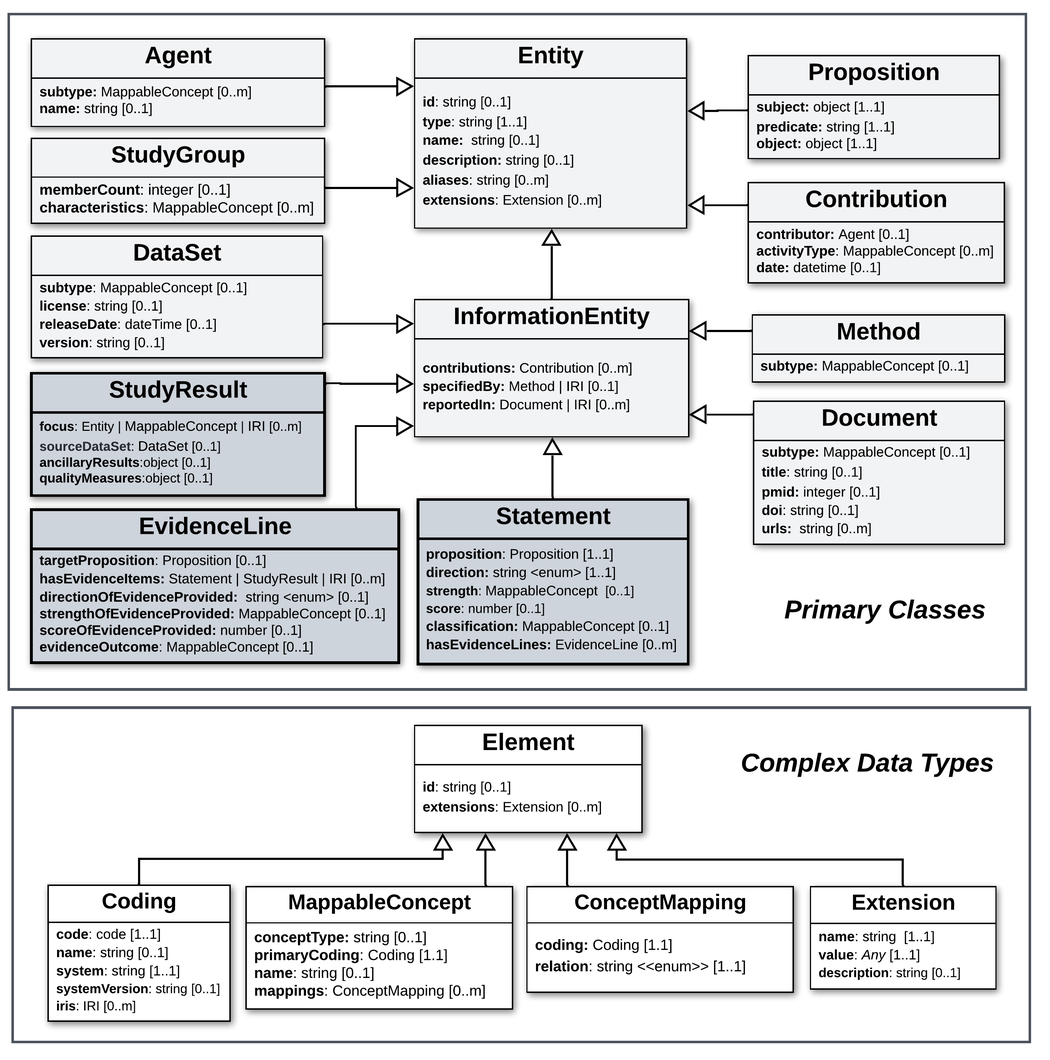
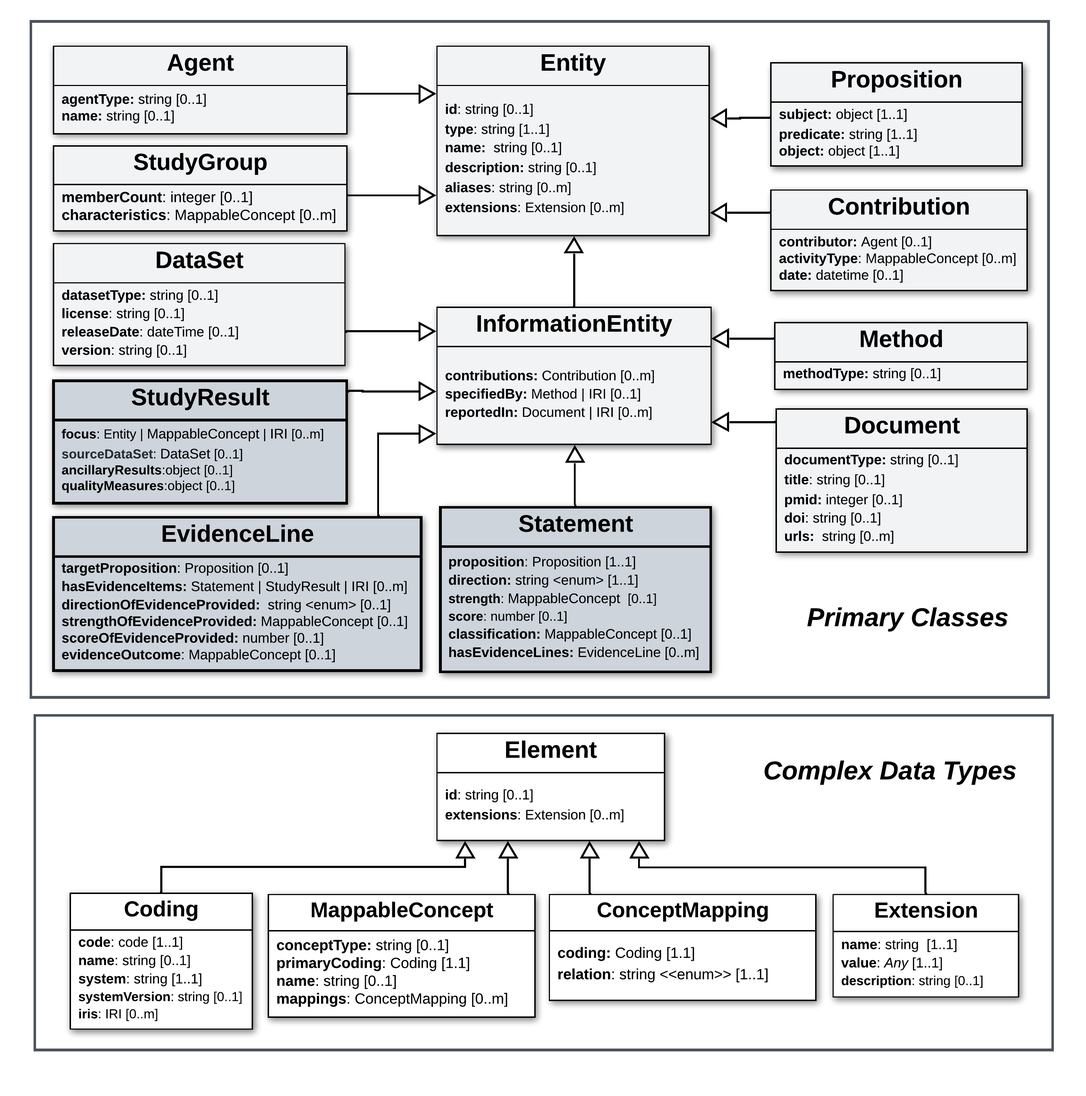
1.0 docs ballot v4 (#341)

Changed region(s): [[0.0, 0.0, 1.0, 0.9906], [0.75, 0.5572, 0.9375, 0.5882]]

diff --git a/docs/source/va-standard-profiles/community-profiles/aac-2017-profiles.rst b/docs/source/va-standard-profiles/community-profiles/aac-2017-profiles.rst
@@ -5,9 +5,22 @@ AAC 2017 Aligned Profiles
 
 The following profiles align with terminology and curation conventions from the `2017 AMP/ASCO/CAP (AAC) Clinical Variant Interpretation Guidelines <https://pubmed.ncbi.nlm.nih.gov/27993330/>`_.
 
-Profiles are authored as YAML-based specifications defining **AAC-based constraints** on top of core class definitions, from which machine-readable JSON Schema and user-facing Web Documentation are automatically generated by `GKS Metaschema Tooling <https://github.com/ga4gh/gks-metaschema>`_.
+These initial profiles were developed to support the following implementations and use cases:
 
-Links to **Source YAML** and **JSON Schema** artifacts are provided following the description of each profile below.
+.. list-table::
+   :class: clean-wrap
+   :header-rows: 1
+   :align: left
+   :widths: 30 70
+
+   *  - Implementer
+      - Use Case
+   *  - VICC MetaKB
+      - Using VA-Spec models to structure diagnostic, prognostic, and therapeutic response variant classifications and evidence in its community-facing data exchange APIs.
+   *  - ClinVar Submission Utility
+      - Uses VA-Spec as input format for submission tools that send variant classifications and evidence from CIViC to the ClinVar database via its API.
+
+The number and coverage of these profiles will grow as these implementations expand their scope, and additional adopters bring new use cases to the spec.
 
 .. _variant-therapeutic-response-statement-aac-2017:
 
@@ -40,17 +53,17 @@ This profile applies the following **constraints** on top of the core :ref:`Stat
       - Description
    *  - proposition
       -
-      - :ref:`Variant Therapeutic Response Proposition`
+      - :ref:`Variant Therapeutic Response Proposition <variant-therapeutic-response-proposition>`
       - 1..1
       - A proposition about the therapeutic response associated with a variant, in the context of a particular condition. The validity of this proposition, and the level of confidence/evidence supporting it, may be assessed and reported by the Statement.
    *  - strength
       -
-      - :ref:`MappableConcept` (nested enum:  | )
+      - :ref:`MappableConcept` (nested enum:  Level A | Level B | Level C | Level D)
       - 0..1
       - A term used to report the strength of a Proposition's assessment in the direction indicated (i.e. how strongly supported or disputed the Proposition is believed to be). The indicated enumeration is bound to the 'code' field in the Coding object nested inside the MappableConcept.
    *  - classification
       -
-      - :ref:`MappableConcept`  (nested enum:  | |  | | )
+      - :ref:`MappableConcept`  (nested enum: Tier I | Tier II | Tier III | Tier IV)
       - 0..1
       - A single term or phrase summarizing the outcome of direction and strength assessments of a Statement's Proposition, in terms of a classification of its subject. The indicated enumeration is bound to the 'code' field in the Coding object nested inside the MappableConcept.
 
@@ -91,17 +104,17 @@ This profile applies the following **constraints** on top of the core :ref:`Stat
       - Description
    *  - proposition
       -
-      - :ref:`Variant Diagnostic Proposition`
+      - :ref:`Variant Diagnostic Proposition <variant-diagnostic-proposition>`
       - 1..1
       - A proposition about a diagnostic association between a variant and condition. The validity of this proposition, and the level of confidence/evidence supporting it, may be assessed and reported by the Statement.
    *  - strength
       -
-      - :ref:`MappableConcept` (nested enum:  | )
+      - :ref:`MappableConcept` (nested enum:  Level A | Level B | Level C | Level D)
       - 0..1
       - A term used to report the strength of a Proposition's assessment in the direction indicated (i.e. how strongly supported or disputed the Proposition is believed to be). The indicated enumeration is bound to the 'code' field in the Coding object nested inside the MappableConcept.
    *  - classification
       -
-      - :ref:`MappableConcept`  (nested enum:  | |  | | )
+      - :ref:`MappableConcept` (nested enum:  Level A | Level B | Level C | Level D)
       - 0..1
       - A single term or phrase summarizing the outcome of direction and strength assessments of a Statement's Proposition, in terms of a classification of its subject. The indicated enumeration is bound to the 'code' field in the Coding object nested inside the MappableConcept.
 
@@ -142,17 +155,17 @@ This profile applies the following **constraints** on top of the core :ref:`Stat
       - Description
    *  - proposition
       -
-      - :ref:`Variant Prognostic Proposition`
+      - :ref:`Variant Prognostic Proposition <variant-prognostic-proposition>`
       - 1..1
       - A proposition about a prognostic association between a variant and condition. The validity of this proposition, and the level of confidence/evidence supporting it, may be assessed and reported by the Statement.
    *  - strength
       -
-      - :ref:`MappableConcept` (nested enum:  | )
+      - :ref:`MappableConcept` (nested enum:  Level A | Level B | Level C | Level D)
       - 0..1
       - A term used to report the strength of a Proposition's assessment in the direction indicated (i.e. how strongly supported or disputed the Proposition is believed to be). The indicated enumeration is bound to the 'code' field in the Coding object nested inside the MappableConcept.
    *  - classification
       -
-      - :ref:`MappableConcept`  (nested enum:  | |  | | )
+      - :ref:`MappableConcept` (nested enum:  Level A | Level B | Level C | Level D)
       - 0..1
       - A single term or phrase summarizing the outcome of direction and strength assessments of a Statement's Proposition, in terms of a classification of its subject. The indicated enumeration is bound to the 'code' field in the Coding object nested inside the MappableConcept.
 

diff --git a/docs/source/va-standard-profiles/base-profiles/proposition-profiles.rst b/docs/source/va-standard-profiles/base-profiles/proposition-profiles.rst
@@ -17,12 +17,25 @@ Variant Pathogenicity Proposition
 
 .. include::  ../../def/va-spec/VariantPathogenicityProposition.rst
 
+**Proposition Semantics**
+
+The ``subject``, ``predicate``, ``object`` attributes defined in this profile can be used to create structured representations of basic propositions such as  *"NM_005343.4:c.173C>T is causal for Costello Syndrome"*. Optional ``qualifier`` attributes are able to support details like a **germline allele origin** and **HRAS gene context** for the variant, and  **low penetrance** and **dominant" mode of inheritance** for the condition.
+
+These specific attributes were defined to support the needs of early :ref:`VA-Spec implementations <implementations>`, but may be refined or expanded as additional use cases emerge.
+
 .. _variant-oncogenicity-proposition:
 
 Variant Oncogenicity Proposition
 #################################
 
 .. include::  ../../def/va-spec/VariantOncogenicityProposition.rst
+
+
+**Proposition Semantics**
+
+The ``subject``, ``predicate``, ``object`` attributes defined in this profile can be used to create structured representations of basic propositions such as  *"NP_000305.3:p.Arg11Thr is causal for Breast Carcinoma"*. Optional ``qualifier`` attributes are able to support details like a **somatic allele origin** and **EGFR gene context** for the variant.
+
+These specific attributes were defined to support the needs of early :ref:`VA-Spec implementations <implementations>`, but may be refined or expanded as additional use cases emerge.
 
 .. _variant-therapeutic-response-proposition:
 
@@ -31,12 +44,27 @@ Variant Therapeutic Response Proposition
 
 .. include::  ../../def/va-spec/VariantTherapeuticResponseProposition.rst
 
+
+**Proposition Semantics**
+
+The ``subject``, ``predicate``, ``object`` attributes defined in this profile can be used to create structured representations of basic propositions such as  *"EGFR L858R predicts sensitivity to Afatinib"*. Here, a required ``conditionQualifierualifier`` captures the disease context in which the reported association holds (e.g. **Lung Adenocarcinoma**), and other optional qualifiers are able to support details like a **somatic allele origin** and **EGFR gene context** for the variant.
+
+These specific attributes were defined to support the needs of early :ref:`VA-Spec implementations <implementations>`, but may be refined or expanded as additional use cases emerge.
+
+
 .. _variant-diagnostic-proposition:
 
 Variant Diagnostic Proposition
 ##############################
 
 .. include::  ../../def/va-spec/VariantDiagnosticProposition.rst
+
+**Proposition Semantics**
+
+The ``subject``, ``predicate``, ``object`` attributes defined in this profile can be used to create structured representations of basic propositions such as  *"EGFR R11T is a diagnostic inclusion criterion for Breast Cancer"*. Optional ``qualifier`` attributes are able to support details like a **somatic allele origin** and **EGFR gene context** for the variant.
+
+These specific attributes were defined to support the needs of early :ref:`VA-Spec implementations <implementations>`, but may be refined or expanded as additional use cases emerge.
+
 
 .. _variant-prognostic-proposition:
 
@@ -45,9 +73,22 @@ Variant Prognostic Proposition
 
 .. include::  ../../def/va-spec/VariantPrognosticProposition.rst
 
+**Proposition Semantics**
+
+The ``subject``, ``predicate``, ``object`` attributes defined in this profile can be used to create structured representations of basic propositions such as  *"EGFR R11T associated with better outcomes for Breast Cancer"*. Optional ``qualifier`` attributes are able to support details like a **somatic allele origin** and **EGFR gene context** for the variant.
+
+These specific attributes were defined to support the needs of early :ref:`VA-Spec implementations <implementations>`, but may be refined or expanded as additional use cases emerge.
+
+
 .. _experimental-variant-functional-impact-proposition:
 
 Experimental Variant Functional Impact Proposition
 ##################################################
 
 .. include::  ../../def/va-spec/ExperimentalVariantFunctionalImpactProposition.rst
+
+**Proposition Semantics**
+
+The ``subject``, ``predicate``, ``object`` attributes defined in this profile can be used to create structured representations of basic propositions such as  *"NP_000305.3:p.Arg11Thr impacts the function of the human PTEN gene"*. Here, an optional ``experimentalContextQualifier`` attribute can reference an assay or analysis that supported the reported impact, which can further inform interpretation of the proposed knowledge.
+
+These specific attributes were defined to support the needs of an early :ref:`MAVE-DB implementation <implementations>` of the VA-Spec, and will likely be refined and/or expanded as additional use cases emerge.

diff --git a/docs/source/appendices/design-decisions.rst b/docs/source/appendices/design-decisions.rst
@@ -60,10 +60,20 @@ Version 1 of the VA-Spec represents all other Domain Entity types using a simple
 Profile Authoring Mechanisms
 ############################
 
-At present, VA-Spec uses two distinct mechanisms for authoring specializations of Core Model Classes for representing specific types of Varaint knowledge (i.e. 'VA Profiles').
- #. A `Metaschema Processor (MSP)-based approach <https://github.com/ga4gh/gks-metaschema>`_ that special MSP functions like `inherits` and `extends` - and requires MSP tooling derive concrete subclasses of parent core classes. This mechanism is used for authoring 'Base Profiles' for Propositions and Study Results, which can be used/referenced within Statement and Evidence Line profiles.
- #. A `JSON Schema composition-based approach <https://json-schema.org/understanding-json-schema/reference/combining>`_ that uses the ``allOf`` keyword to extend core class definitions with additional constraints. This mechanism is used for authoring 'Community Profiles' for Statements and Evidence Lines, which constrain the values of certain attributes to align with terminologies and conventions from established community standards such as the ACMG-2015 Interpretation Guidelines. For more, see `here <https://va-ga4gh.readthedocs.io/en/latest/community-profile-sets/index.html>`_.
+In version 1.0 of the VA-Spec, we distinguish between two categories of profiles, whose specifications which employ distinct authoring mechanisms:
 
-This design decision was largely guided by the technical environment under which we had to implement the initial profiling process, and limitations this imposed. Metashcema Processor tooling, while not specifically suited to support profiling operations, were available and used in other GKS standards. And JSON Schema is a widely used language familiar to most developers, that has built in support for profiling tasks.
+ **VA Base Profiles**:
 
-We recognize that this patchwork approach is not ideal, and plan to evolve toward a more consistent profile authoring mechanism with integrated tooling support for community development (see :ref:`Future Plans <link-ml-profile-authoring-support>`).
+  - Specialize generic VA core classes for a particular type of knowledge, through formal definition of concrete subclasses.
+  - This approach relies on bespoke `Metaschema Processor (MSP) tooling <https://github.com/ga4gh/gks-metaschema>`_ with functions to craft subclass definitions, and associated tooling to ferive formal json schema from them.
+  - This Base Profiling approach is used to create :ref:`Proposition Profiles<proposition-profiles>` and :ref:`Study Result Profiles<study-result-profiles>`, which can be used/referenced within Statement and Evidence Line profiles.
+
+ **Community Profiles**:
+
+  - Layer additional constraints on top of VA core classes to enforce alignment with terminology conventions of a specific community guideline (e.g. ACMG 2015).
+  - These constraints are defined using a native json schema composition approach, which does not result in creation of concrete subclasses for each profile.
+  - This approach is used to define :ref:`Statement<Statement>` and :ref:`Evidence Line<EvidenceLine>` profiles - which incorporate Propositions to specify the possible fact they assert to be true or evaluate evidence against, respectively.
+
+This design decision was largely guided to minimize the number of classes in the model while providing flexibility into specialize core models for diverse domains and community guidelines.   It also leverages the JSON Schema language which is widely used and familiar to most developers.
+
+For more information and technical guidance around how these types of profiles are authored and used, see the :ref:`Developer Guide <developer-guide>` section.

diff --git a/docs/source/developer-guide.rst b/docs/source/developer-guide.rst
@@ -10,7 +10,7 @@ Preceding documentation provides a more conceptual understanding of the VA-Spec 
 Authoring Base vs Community Profiles
 #####################################
 
-As noted :ref:`here <va-profiles>`, version 1.0 of the VA-Spec makes a formal distinction between 'Base' and 'Community' Profiles, and relies on distinct mechanisms for authoring them.
+Here we build on this :ref:`conceptual overview of the Profiling Approach <profiles>`, to describe the technical mechanisms used to define profile specilaizations. Version 1.0 of the VA-Spec makes a formal distinction between **'Base'** and **'Community'** Profiles, and relies on **distinct mechanisms** for authoring them.
 
 .. _inheritance-based-profiling:
 
@@ -87,7 +87,7 @@ Custom Profile Development
 
 Representation of a particular type of **Statement** or **Evidence Line** using the VA-Spec does not always require a VA Profile to be specifically defined for it.
 
-Custom Profiles are Statement or Evidence Line profiles that are created de novo, to support a specific implementation use case where data cannot be made to conform to a particular guideline-based Community Profile .
+Custom Profiles are Statement or Evidence Line models that are defined de novo, to support a specific implementation use case where data cannot be made to conform to a particular guideline-based Community Profile.
 
 This section describes why these are useful, and how to create them.
 
@@ -97,11 +97,11 @@ This section describes why these are useful, and how to create them.
 * Implementers who do not seek such alignment can build their own schema for Statements or Evidence Lines to report on any of the knowledge types specified in VA :ref:`Base Proposition profiles<proposition-profiles>`.
 * For example, a project that aims to represent some of the messier data in ClinVar where values for key fields bound to ACMG-specific enumerations in the exisitng :ref:`Variant Pathogenicity Statement profile <variant-pathogenicity-statement-acmg-2015>` - and doesn't want to use :ref:`Extensions <Extension>` to capture this data - can define a custom Pathogenicity Statement Profile from core Statement and Evidence Line classes that applies constraints specific to its data.
 
-**The process is relatively straightforward:**
+**The process is straightforward** - e.g. to create a custom Statement profile for pathogenicity classification data not based strictly aligned with ACMG terminology:
 
-#. Starting with the core :ref:`Statement<Statement` class
+#. Start with the core :ref:`Statement<Statement>` class
 #. Bind its ``proposition`` attribute to the :ref:`VariantPathogenicityProposition <variant-pathogenicity-proposition>`base profile class
-#. Use other base Statement attributes and core classes to represent additional information about the Statement (e.g. strength, classification, methods, etc) - defining additional constraints or enumerations as desired using the :ref:`Composition-Based Profiling Mechanism <composition-based-profiling>` described above.
+#. Use other core Statement attributes and related core classes to represent additional information about the Statement (e.g. strength, classification, methods, etc) - defining additional constraints or enumerations as desired using the :ref:`Composition-Based Profiling Mechanism <composition-based-profiling>` described above.
 
 This :ref:`simple data example <custom-variant-pathogenicity-statement-example>` illustrates application of this approach to create a custom, non-ACMG-compliant representation of a pathogenicity statement.
 

diff --git a/docs/source/examples/acmg-variant-pathogenicity-statement-with-evidence.rst b/docs/source/examples/acmg-variant-pathogenicity-statement-with-evidence.rst
@@ -25,12 +25,13 @@ A few additional notes about this example:
 
 * Comments in the yaml are provided to help readers better understand the structure, semantics, and utility of the data in the example.
 * Some identifiers not present in the source test fixture data were created for purposes of identifying and cross-referencing objects in this aggregate example (these are all prefixed with the string 'ex:').
-* Note that the variant subject of each Statement and Study Result objects is reported to be the same for simplicity (ex:Variant001, shown in the diagram as *NM_004700.4:c.803CCT[1]*).In reality these objects may describe subtly different variants that all map to each other in some way (e.g. a protein-level variant in the Functional Impact objects, a genomic-level variant in the Allele Frequency objects, and a Categorical Variant that covers both of these contextual variants in the Pathogenicity Statement and its direct Evidence Lines). Nuances around how variant subjects of Statements and those described by supporting evidence is a separate and complex topic addressed :ref:`here<variant-congruence>`.
+* Note that the variant subject of each Statement and Study Result objects is reported as the same, generic variation for simplicity (ex:Variation001). In reality these objects may describe subtly different variants that all map to each other in some way (e.g. a protein-level variant in the Functional Impact objects, a genomic-level variant in the Allele Frequency objects, and a Categorical Variant that covers both of these contextual variants in the Pathogenicity Statement and its direct Evidence Lines). Nuances around how variant subjects of Statements and those described by supporting evidence is a separate and complex topic addressed :ref:`here<variant-congruence>`.
 * The example omits full representations of these `VRS <https://github.com/ga4gh/vrs>`_ and `CatVRS <https://github.com/ga4gh/cat-vrs>`_ Variation objects - as these are large structures that are the remit of other GKS Specifications.
 
 **Data**:
 
 .. note:: Comments in the example below will be easier to view in the |acmg_pathogenicity_statement_with_evidence_example_source_yaml|, which affords the option of a wider browser window.
+   We recommend opening this example side-by-side with the figure above, and tracking how the data reflects the diagrammed structure and semantics.
 
 .. code-block:: yaml
 

diff --git a/docs/source/modeling-foundations/profiles.rst b/docs/source/modeling-foundations/profiles.rst
@@ -26,12 +26,12 @@ The table below describes the different profiling tasks supported, with examples
       - Specialization of the ``Proposition`` class to create the ``VariantPathogenicityProposition`` profile
    *  - Import and reference classes for domain entities that variant knowledge is about
       - The ``VariantPathogenicityProposition`` profile uses ``MolecularVariation`` and ``CategoricalVariation`` classes imported from VRS and CatVRS, and a minimal ``Condition`` class defined in the VA-Spec itself.
-   *  - Constrain attributes to take a more specific type of value
-      - The ``VariantPathogenicityProposition`` profile restircts the ``object`` attribute to take a ``Condition`` as its value
-   *  - Define a new attribute to capture domain-specific information in a profiled class
-      - The ``VariantPathogenicityProposition`` profile defines ``geneContextQualifier`` and ``alleleoriginQualifier`` attributes.
+   *  - Constrain attributes to take a more specific type of value (possible renaming them in the process)
+      - The ``VariantPathogenicityProposition`` profile renames the ``object`` attribute  to ``objectCondition``, and restricts it to take a ``Condition`` as its value
    *  - Define value sets and binding them to select attributes.
       - The ``ACMG 2015 Variant Pathogenicity Statement`` profile restricts its ``classification`` attribute to take values based on ACMG 2015 criterion codes and terminology.
+   *  - Define a new attribute to capture domain-specific information in a profiled class
+      - The ``VariantPathogenicityProposition`` profile defines ``geneContextQualifier`` and ``alleleoriginQualifier`` attributes.
    *  - Refine cardinality of select attributes
       - The ``ACMG 2015 Variant Pathogenicity Statement`` profile makes ``Statement.classification`` a required field.
 

diff --git a/docs/source/va-standard-profiles/community-profiles/acmg-2015-profiles.rst b/docs/source/va-standard-profiles/community-profiles/acmg-2015-profiles.rst
@@ -3,9 +3,24 @@
 ACMG 2015 Aligned Profiles
 @@@@@@@@@@@@@@@@@@@@@@@@@@
 
-The following profiles align with terminology and curation conventions from the `ACMG 2015 Pathogenicity Interpretation Guidelines <https://pubmed.ncbi.nlm.nih.gov/25741868>`_
+The following profiles align with terminology and curation conventions from the `ACMG 2015 Pathogenicity Interpretation Guidelines <https://pubmed.ncbi.nlm.nih.gov/25741868>`_.
 
-Profiles are authored as YAML-based specifications defining **ACMG-based constraints** on top of a core class definitions from which machine-readable JSON Schema and user-facing Web Documentation are automatically generated by `GKS Metaschema Tooling <https://github.com/ga4gh/gks-metaschema>`_.
+These initial profiles were developed to support the following implementations and use cases:
+
+.. list-table::
+   :class: clean-wrap
+   :header-rows: 1
+   :align: left
+   :widths: 30 70
+
+   *  - Implementer
+      - Use Case
+   *  - ClinVar GKS
+      - Will use VA-Spec to represent GKS-based representations of the ClinVar XML records, and exchange this data across various ClinGen data systems
+   *  - MAVE DB
+      - Will use VA-Spec as a format to send multiplex-assay based functional impact data, classifications, and evidence interpretations to external platforms where they can be used to support pathogenicity and oncogenicity interpretation.
+
+The number and coverage of these profiles will grow as these implementations expand their scope, and additional adopters bring new use cases to the spec.
 
 .. _variant-pathogenicity-statement-acmg-2015:
 

diff --git a/docs/source/va-standard-profiles/community-profiles/ccv-2022-profiles.rst b/docs/source/va-standard-profiles/community-profiles/ccv-2022-profiles.rst
@@ -3,11 +3,31 @@
 CCV 2022 Aligned Profiles
 @@@@@@@@@@@@@@@@@@@@@@@@@
 
+
 The following profiles align with terminology and curation conventions from the `ClinGen/CGC/VICC (CCV) 2022 Oncogenicity Interpretation Guidelines <https://pubmed.ncbi.nlm.nih.gov/35101336/>`_
 
-Profiles are authored as YAML-based specifications defining **CCV-based constraints** on top of the core class definitions, from which machine-readable JSON Schema and user-facing Web Documentation are automatically generated by `GKS Metaschema Tooling <https://github.com/ga4gh/gks-metaschema>`_.
+These initial profiles were developed to support the following implementations and use cases:
 
-Links to **Source YAML** and **JSON Schema** artifacts are provided following the description of each profile below.
+.. list-table::
+   :class: clean-wrap
+   :header-rows: 1
+   :align: left
+   :widths: 30 70
+
+.. list-table::
+   :class: clean-wrap
+   :header-rows: 1
+   :align: left
+   :widths: 30 70
+
+   *  - Implementer
+      - Use Case
+   *  - VICC MetaKB
+      - Using VA-Spec models to structure oncogenicity classifications and evidence in its community-facing data exchange APIs.
+   *  - ClinVar Submission Utility
+      - Uses VA-Spec as input format for submission tools that send variant classifications and evidence from CIViC to the ClinVar database via its API.
+
+The number and coverage of these profiles will grow as these implementations expand their scope, and additional adopters bring new use cases to the spec.
 
 .. _variant-oncogenicity-statement-ccv-2022:
 

diff --git a/docs/source/va-standard-profiles/community-profiles/index.rst b/docs/source/va-standard-profiles/community-profiles/index.rst
@@ -9,7 +9,7 @@ Version 1 of the VA-Spec includes **Statement** and **Evidence Line** Community 
  - the `ClinGen/CGC/VICC (CCV) 2022 Oncogenicity Interpretation Guidelines <https://pubmed.ncbi.nlm.nih.gov/35101336/>`_
  - the `AMP/ASCO/CAP (AAC) Guidelines for Clinical Interpretation of Genetic Variants <https://pubmed.ncbi.nlm.nih.gov/27993330>`_
 
-These Community Profiles layer additional constraints on top of VA core classes to enforce alignment with terminology conventions of a specific community guideline. For example, ACMG-based profiles define enumerations that incorporate ACMG terminology into value sets, including:
+These Community Profiles layer additional constraints on top of core class definitions to enforce alignment with terminology conventions of a specific community guideline. For example, ACMG-based profiles incorporate ACMG terminology into enuemrated value sets bound to core :ref:`Statement<Statement>` and :ref:`Evidence Line<EvidenceLine>` attributes, including:
 
 - ACMG criterion codes (``PS3``, ``BS3``)
 - ACMG criterion assessment outcomes (``met``, ``not met``)
@@ -18,6 +18,7 @@ These Community Profiles layer additional constraints on top of VA core classes 
 
 See :ref:`here <acmg-variant-pathogencity-statement-example>` for a simple data example of an ACMG-aligned Variant Pathogenicity Statement.
 
+See :ref:`here <profile-authoring-mechanisms>` for a description of how constraints in Community Pofiles are authored.
 
 -----
 

diff --git a/docs/source/va-standard-profiles/index.rst b/docs/source/va-standard-profiles/index.rst
@@ -3,9 +3,9 @@
 VA Profiles
 !!!!!!!!!!!
 
-VA Profiles extend generic VA Core Model classes with specializations to support a particular type of knowledge (e.g. a variant pathogenicity), and/or align with established community terminology and curation conventions (e.g. the ACMG-2015 Guidelines)
+VA Profiles extend generic Core Model classes with specializations to support a particular type of knowledge (e.g. a variant pathogenicity), and/or align with established community terminology and curation conventions (e.g. the ACMG-2015 Guidelines)
 
-A :ref:`Profiling Approach <profile-authoring-mechanisms>` specifies how profiles are authored as YAML-based specifications, from which machine-readable JSON Schema are derived and used by implementers to structure, validate, and exchange variant data in their systems.
+The VA-Spec provides a :ref:`Profile authoring approach <profile-authoring-mechanisms>` that specifies how profiles are defined as YAML-based specifications, from which machine-readable JSON Schema are derived and used by implementers to structure, validate, and exchange variant data in their systems.
 
 The VA-Spec currently supports profiles of four Core Model classes:
 
@@ -51,4 +51,3 @@ For technical guidance around how these types of profiles are authored and imple
 
    base-profiles/index
    community-profiles/index
-   custom-profiles

diff --git a/docs/source/va-standard-profiles/base-profiles/study-result-profiles.rst b/docs/source/va-standard-profiles/base-profiles/study-result-profiles.rst
@@ -17,6 +17,11 @@ Cohort Allele Frequency Study Result
 
 .. include::  ../../def/va-spec/CohortAlleleFrequencyStudyResult.rst
 
+**Use Cases and Implementations**
+
+This Study Result profile was defined to support `gnomAD <https://gnomad.broadinstitute.org/>`_ data in an early implementation for the `GREGoR consortium <https://gregorconsortium.org/>`_. It proivides a format to represent and share the diverse types of allele frequency data, quality measures, and derived ancillary results this resource provides. The model may be generalized in the future to support broader use cases, as new requirements and implementers emerge.
+
+
 
 .. _experimental-variant-functional-impact-study-result:
 
@@ -24,3 +29,7 @@ Experimental Variant Functional Impact Study Result
 ###################################################
 
 .. include::  ../../def/va-spec/ExperimentalVariantFunctionalImpactStudyResult.rst
+
+**Use Cases and Implementations**
+
+This Study Result profile was defined to support an early `MAVE-DB <https://www.mavedb.org/>`_ implementation of the VA-Spec, as a format to represent high-throughput, quantitative multiplex-assay based functional impact data. This is a very unique type of assay and functional impact data, and the model may be generalized in the future to support broader use cases, as new requirements and implementers emerge.

diff --git a/docs/source/core-information-model/domain-entities.rst b/docs/source/core-information-model/domain-entities.rst
@@ -132,8 +132,10 @@ At present, the VA-Spec incldues  a ``TherapeyGroup`` schema for representing gr
 **Implementation Guidance**
 
   - Populating the ``membershipOperator`` attribute:
+
     - The membershipOperator ‘AND’ should be used when all therapies in the group were applied in combination to a given patient or subject.
     - The membershipOperator ‘OR’ should be used only in the specific scenario where a study is done on a cohort of individuals that receive one of the therapies in the group - and the treatment response is determined based on an aggregate statistical analysis across all members of this mixed cohort. In such cases, the study does not provide the statistical power to make a conclusion about response to each therapy individually.
+
       - Therapies in such groups are typically related in their treatment mechanism (e.g. members of the same drug class), and recipients are pooled to make a single cohort that is large enough support a statistically significant results about that class of treatments.
       - Future iterations of the VA-Spec may support representation of these categorical groupings of therapies, but for now we capture the individual therapies used in the study in a TherapyGroup.
 
